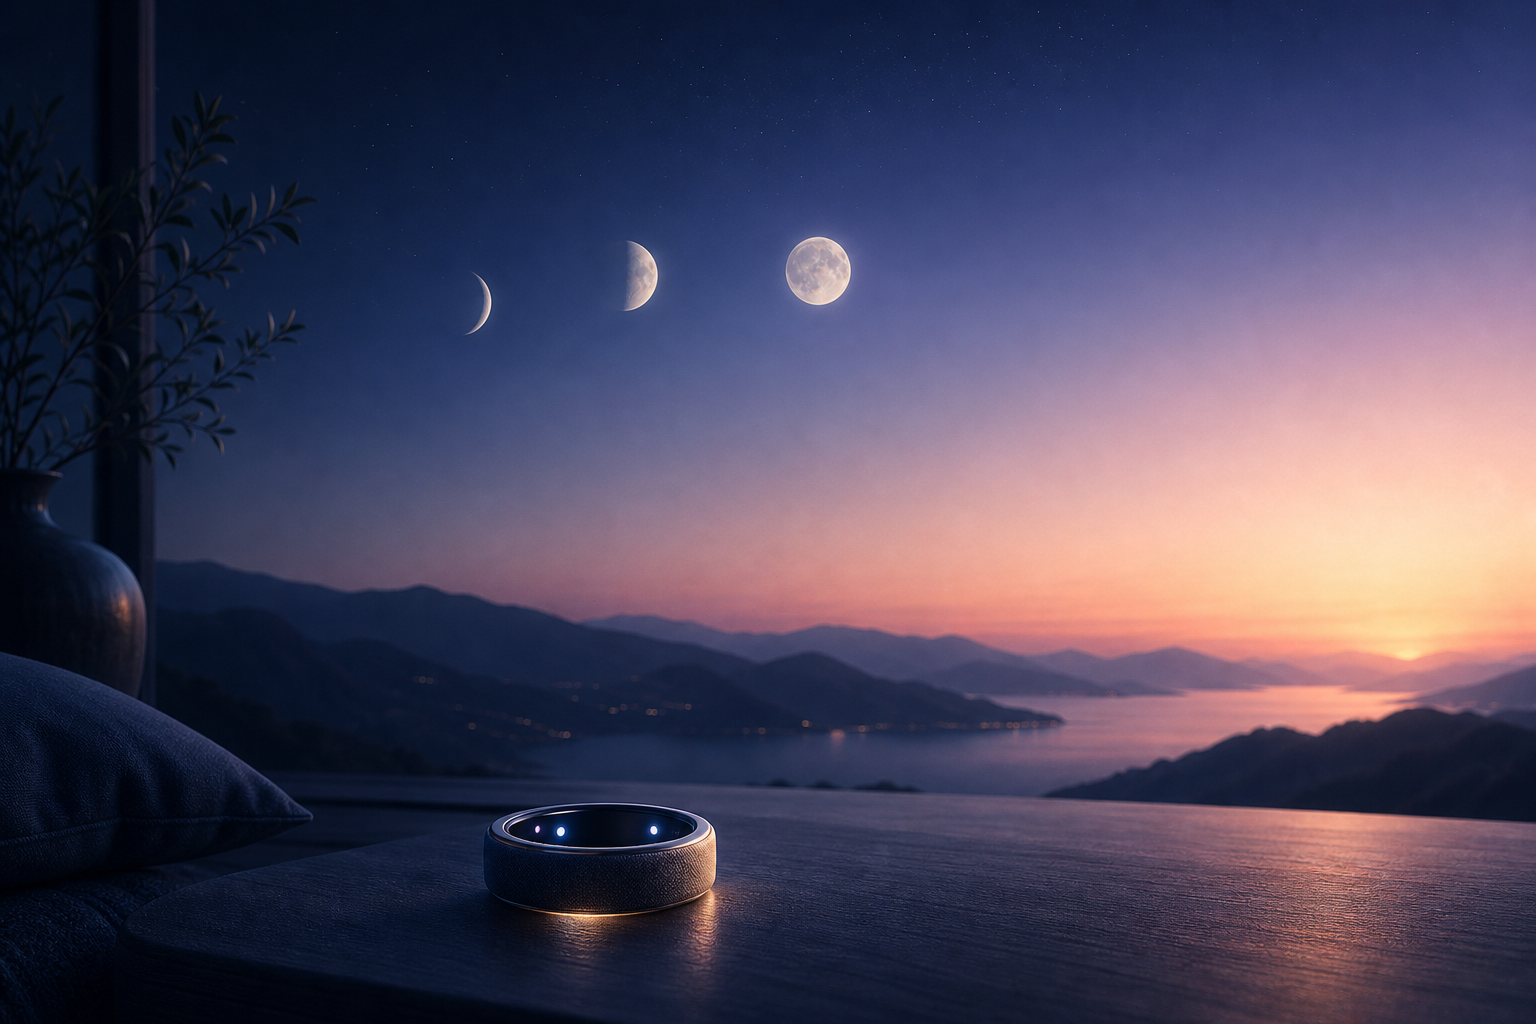
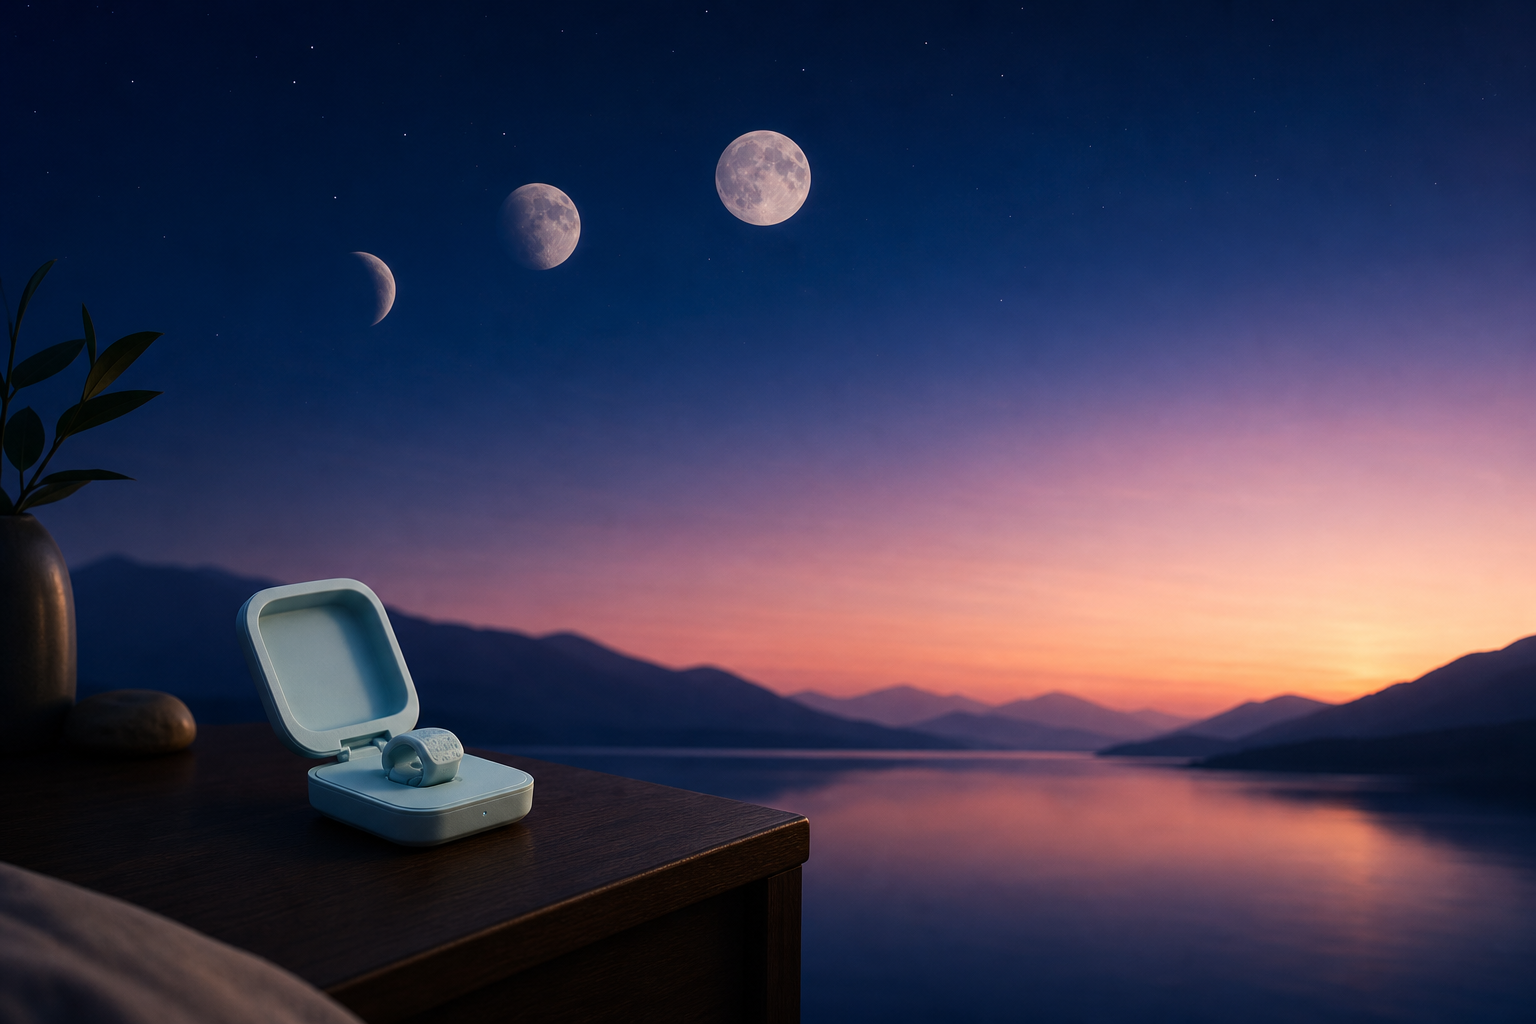
feat(deepdose): harmonise palette to TipTraQ device blue + home-test polish
- Swap brand spectrum blue to the device duck egg blue (#acd3de) across
  gradients, accents, links, focus/selection states and decorative blobs
- Replace hero image with the TipTraQ device in its clamshell case
- Remove redundant hero value pills (covered by pricing and steps)
- Move verified clinical-grade badge to the hero bottom-right
- Give "How it works" and "Simple pricing" standout display headings

diff --git a/deepdose/src/styles/deepdose-app-overrides.css b/deepdose/src/styles/deepdose-app-overrides.css
@@ -105,7 +105,7 @@
 }
 
 .secopeutic-demo.seco-shell--dark :is(.seco-page, .seco-app-page, .seco-app-card) .text-accent {
-  color: #8fd4ff;
+  color: #acd3de;
 }
 
 .secopeutic-demo.seco-shell--dark .dios-callout--warning {
@@ -291,7 +291,7 @@
 }
 
 .secopeutic-demo.seco-shell--dark .seco-app-page .bg-aubergine-mid {
-  background: rgb(94 200 245 / 0.55);
+  background: rgb(172 211 222 / 0.55);
 }
 
 .secopeutic-demo.seco-shell--dark .seco-app-page .divide-border > :not([hidden]) ~ :not([hidden]) {
@@ -891,8 +891,8 @@
 .secopeutic-demo.seco-shell--dark .dios-input:focus,
 .secopeutic-demo.seco-shell--dark select.dios-input:focus,
 .secopeutic-demo.seco-shell--dark textarea.dios-input:focus {
-  border-color: rgb(94 200 245 / 0.55);
-  box-shadow: 0 0 0 3px rgb(94 200 245 / 0.18);
+  border-color: rgb(172 211 222 / 0.55);
+  box-shadow: 0 0 0 3px rgb(172 211 222 / 0.18);
 }
 
 .secopeutic-demo.seco-shell--dark .dios-checkbox {
@@ -915,7 +915,7 @@
 }
 
 .secopeutic-demo.seco-shell--dark .dios-step-rail__dot--done {
-  background: rgb(94 200 245 / 0.14);
+  background: rgb(172 211 222 / 0.14);
   color: var(--accent);
 }
 
@@ -941,8 +941,8 @@
 }
 
 .dios-select-card--selected {
-  border-color: rgb(94 200 245 / 0.35);
-  background: rgb(94 200 245 / 0.08);
+  border-color: rgb(172 211 222 / 0.35);
+  background: rgb(172 211 222 / 0.08);
 }
 
 .secopeutic-demo.seco-shell--dark .dios-select-card {
@@ -951,8 +951,8 @@
 }
 
 .secopeutic-demo.seco-shell--dark .dios-select-card--selected {
-  border-color: rgb(94 200 245 / 0.4);
-  background: rgb(94 200 245 / 0.12);
+  border-color: rgb(172 211 222 / 0.4);
+  background: rgb(172 211 222 / 0.12);
 }
 
 .dios-inset-panel {
@@ -1306,7 +1306,7 @@
 }
 
 .seco-research-tile__band--foundational {
-  background: linear-gradient(105deg, #5ec8f5 0%, #8b9cf8 58%, #c4a0ff 100%);
+  background: linear-gradient(105deg, #acd3de 0%, #8b9cf8 58%, #c4a0ff 100%);
 }
 
 .seco-research-tile__band--drug {
@@ -1314,7 +1314,7 @@
 }
 
 .seco-research-tile__band--population {
-  background: linear-gradient(105deg, #f2b8a2 0%, #c8b0f0 54%, #a8c8ff 100%);
+  background: linear-gradient(105deg, #f2b8a2 0%, #c8b0f0 54%, #acd3de 100%);
 }
 
 .seco-research-tile__band::after {
@@ -1440,6 +1440,16 @@
   margin-bottom: 0.25rem;
 }
 
+.seco-hometest__h2 {
+  margin: 0;
+  font-family: var(--seco-font-display);
+  font-size: clamp(1.625rem, 3.4vw, 2.25rem);
+  font-weight: 300;
+  line-height: 1.12;
+  letter-spacing: -0.03em;
+  color: #fff;
+}
+
 .seco-hometest__section-sub {
   margin: 0.5rem 0 0;
   max-width: 56ch;
@@ -1470,26 +1480,6 @@
   margin-bottom: 1rem;
 }
 
-.seco-hometest__chips {
-  display: flex;
-  flex-wrap: wrap;
-  gap: 0.5rem;
-  margin: 1.25rem 0 0;
-  padding: 0;
-  list-style: none;
-}
-
-.seco-hometest__chip {
-  padding: 0.3125rem 0.75rem;
-  border: 1px solid var(--seco-navy-border);
-  border-radius: 999px;
-  background: rgb(255 255 255 / 0.04);
-  font-family: var(--seco-font-ui);
-  font-size: 0.8125rem;
-  font-weight: 500;
-  color: rgb(255 255 255 / 0.78);
-}
-
 .seco-hometest__hero-actions {
   display: flex;
   flex-wrap: wrap;
@@ -1517,7 +1507,7 @@
 
 .seco-hometest__hero-badge {
   position: absolute;
-  left: 0.875rem;
+  right: 0.875rem;
   bottom: 0.875rem;
   display: inline-flex;
   align-items: center;
@@ -1742,7 +1732,7 @@
   border: 1px solid var(--seco-navy-border);
   border-radius: var(--seco-radius-xl);
   background:
-    radial-gradient(130% 150% at 0% 0%, rgb(94 200 245 / 0.12), transparent 58%),
+    radial-gradient(130% 150% at 0% 0%, rgb(172 211 222 / 0.12), transparent 58%),
     var(--seco-navy-card);
   overflow: hidden;
 }

diff --git a/deepdose/src/app/(public)/home-test/page.tsx b/deepdose/src/app/(public)/home-test/page.tsx
@@ -79,13 +79,6 @@ export default function HomeTestPage() {
   const quarterly = formatTipTraqQuarterlyFee()
   const privateAnchor = `£${TIPTRAQ_STUDY_PRICING_UK.ukWatchPat3NightGbp}`
 
-  const heroPoints = [
-    'Three nights at home',
-    `${baseline} baseline`,
-    'About half a private test',
-    'Free on the research programme',
-  ]
-
   const priceTiers: PriceTier[] = [
     {
       tier: 'Baseline',
@@ -118,13 +111,6 @@ export default function HomeTestPage() {
               half a typical private test. Your clinician adds your results to {DEEPDOSE_NAME}, and
               your dashboard shows the best times for light, meals, medicines, exercise, and sleep.
             </p>
-            <ul className="seco-hometest__chips">
-              {heroPoints.map((point) => (
-                <li key={point} className="seco-hometest__chip">
-                  {point}
-                </li>
-              ))}
-            </ul>
             <div className="seco-hometest__hero-actions">
               <Link href="/login" className="seco-landing__btn seco-landing__btn--primary">
                 Get your test →
@@ -150,7 +136,7 @@ export default function HomeTestPage() {
         </header>
 
         <section className="seco-hometest__section seco-reveal seco-reveal--2">
-          <h2 className="seco-app-section-title">How it works</h2>
+          <h2 className="seco-hometest__h2">How it works</h2>
           <ol className="seco-hometest__steps">
             {STEPS.map((step, index) => (
               <li key={step.title} className="seco-hometest__step">
@@ -168,7 +154,7 @@ export default function HomeTestPage() {
 
         <section className="seco-hometest__section seco-reveal seco-reveal--3">
           <div className="seco-hometest__section-head">
-            <h2 className="seco-app-section-title">Simple pricing</h2>
+            <h2 className="seco-hometest__h2">Simple pricing</h2>
             <p className="seco-hometest__section-sub">
               About half a typical private test. A three-night clinic rental is around{' '}
               {privateAnchor}.

diff --git a/deepdose/src/styles/secopeutic-demo.css b/deepdose/src/styles/secopeutic-demo.css
@@ -15,7 +15,7 @@
   --seco-surface: #fff;
   --seco-canvas: #f7f8fa;
   --seco-border: rgb(17 18 19 / 0.08);
-  --seco-spectrum-cyan: #5ec8f5;
+  --seco-spectrum-cyan: #acd3de;
   --seco-spectrum-mid: #8b9cf8;
   --seco-spectrum-lilac: #c4a0ff;
   --seco-spectrum: linear-gradient(92deg, var(--seco-spectrum-cyan) 0%, var(--seco-spectrum-mid) 42%, var(--seco-spectrum-lilac) 100%);
@@ -29,7 +29,7 @@
   --seco-dial-face-from: rgb(255 255 255 / 0.14);
   --seco-dial-face-mid: rgb(255 255 255 / 0.06);
   --seco-dial-face-to: rgb(255 255 255 / 0.02);
-  --seco-dial-window-glow-from: rgb(94 200 245 / 0.55);
+  --seco-dial-window-glow-from: rgb(172 211 222 / 0.55);
   --seco-dial-window-glow-to: rgb(196 160 255 / 0.35);
   --seco-dial-surface: rgb(255 255 255 / 0.08);
   --seco-dial-readout-bg: rgb(11 18 32 / 0.9);
@@ -39,7 +39,7 @@
     #f2b8a2 0%,
     #e8a8c8 38%,
     #c8b0f0 72%,
-    #a8c8ff 100%
+    #acd3de 100%
   );
   --seco-radius-md: 0.875rem;
   --seco-radius-lg: 1.125rem;

diff --git a/deepdose/src/styles/secopeutic-landing.css b/deepdose/src/styles/secopeutic-landing.css
@@ -370,13 +370,13 @@
 }
 
 .seco-hero-tabs__icon--blue {
-  background: rgb(168 200 255 / 0.22);
-  color: #a8c8ff;
+  background: rgb(172 211 222 / 0.22);
+  color: #acd3de;
 }
 
 .seco-hero-tabs__tab--active .seco-hero-tabs__icon--blue {
-  background: rgb(168 200 255 / 0.24);
-  color: #3f6cc4;
+  background: rgb(172 211 222 / 0.24);
+  color: #3f7d8c;
 }
 
 .seco-hero-tabs__copy {
@@ -1951,7 +1951,7 @@
 
 .secopeutic-demo.seco-shell--dark .seco-maven-course-card__link,
 .secopeutic-demo.seco-shell--dark .seco-landing__card-link {
-  color: #8fd4ff;
+  color: #acd3de;
 }
 
 .secopeutic-demo.seco-shell--dark .seco-maven-course-card:hover {

diff --git a/deepdose/src/styles/dios-tokens.css b/deepdose/src/styles/dios-tokens.css
@@ -57,13 +57,13 @@
   --maven-navy-card: #151f33;
   --maven-navy-border: rgb(255 255 255 / 0.1);
   --maven-canvas: #f7f8fa;
-  --maven-spectrum: linear-gradient(92deg, #5ec8f5 0%, #8b9cf8 42%, #c4a0ff 100%);
+  --maven-spectrum: linear-gradient(92deg, #acd3de 0%, #8b9cf8 42%, #c4a0ff 100%);
   --maven-spectrum-hero: linear-gradient(
     90deg,
     #f2b8a2 0%,
     #e8a8c8 38%,
     #c8b0f0 72%,
-    #a8c8ff 100%
+    #acd3de 100%
   );
 
   /* ── Clinical status ── */

diff --git a/deepdose/src/styles/dios-blob-backdrop.css b/deepdose/src/styles/dios-blob-backdrop.css
@@ -106,7 +106,7 @@
   bottom: 8%;
   background: radial-gradient(
     circle,
-    rgb(168 200 255 / 0.7) 0%,
+    rgb(172 211 222 / 0.7) 0%,
     rgb(200 176 240 / 0.45) 40%,
     rgb(232 213 226 / 0.2) 68%,
     transparent 78%
